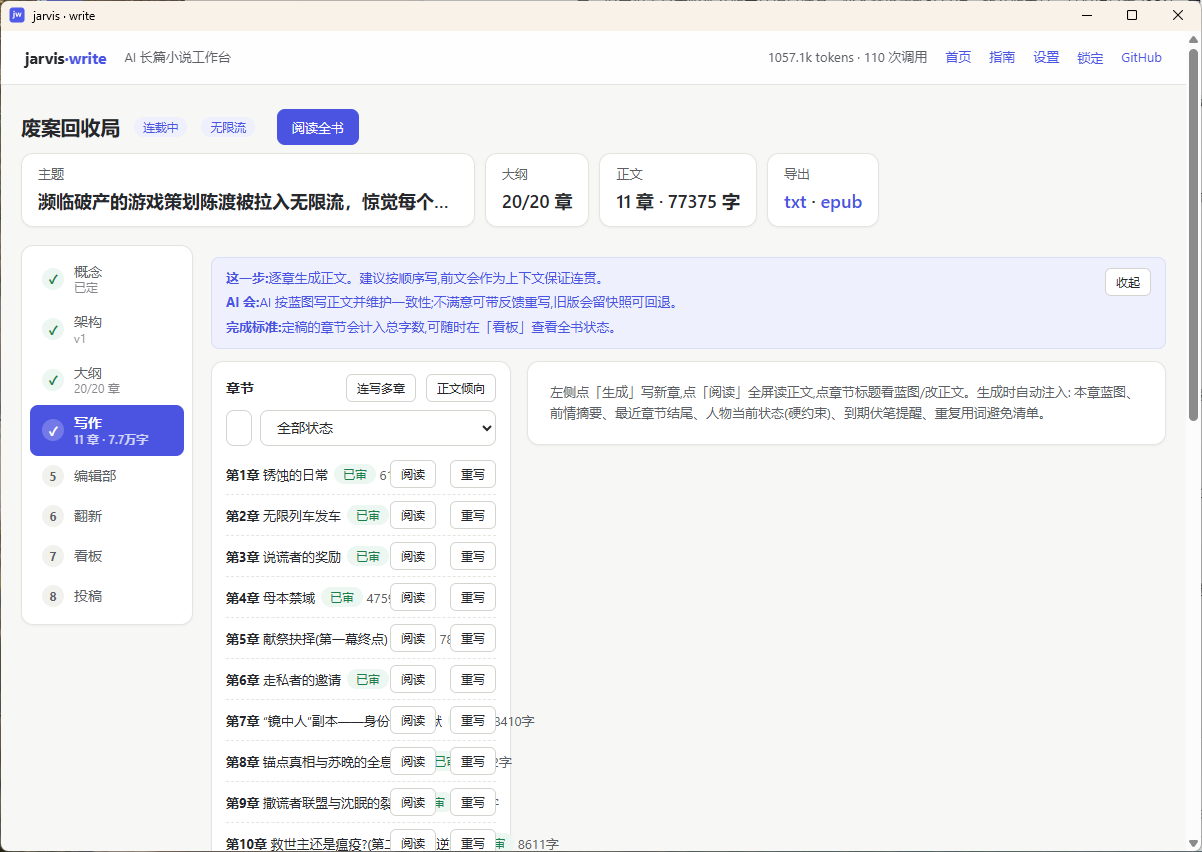
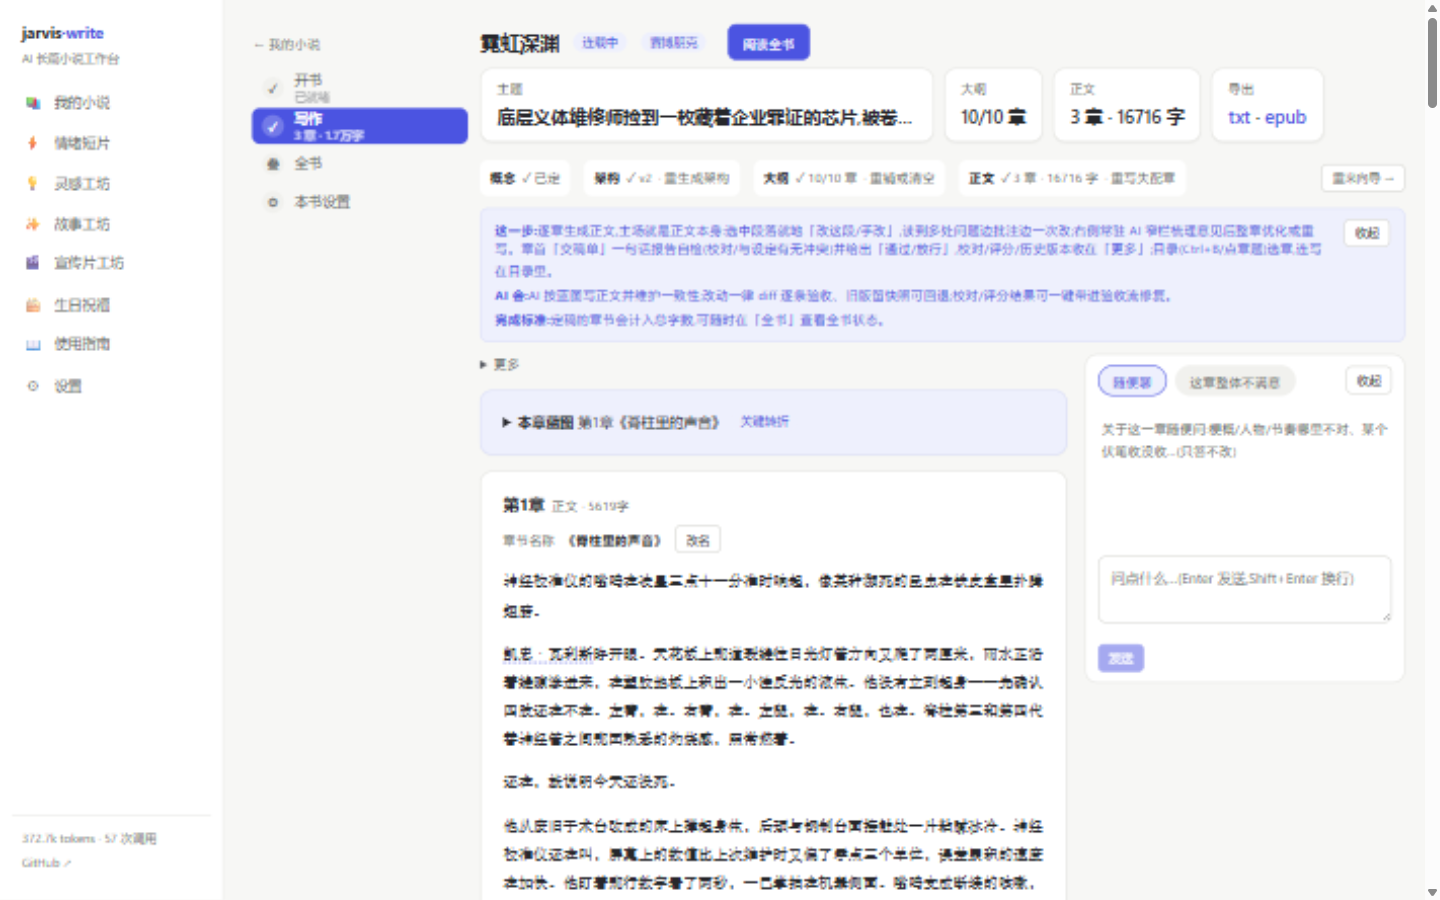
docs: README 与官网截图全面翻新——实拍当前 UI(工作台/首页/应用锁/故事工坊 + 移动端六图),删过期级联 GIF,补齐灵感工坊与故事工坊的介绍

diff --git a/docs/index.md b/docs/index.md
@@ -32,6 +32,9 @@ features:
   - icon: ⚡
     title: 情绪短片工坊 · 15/30s 三本子三选一
     details: 遗憾/争吵/爱情/童趣等十大情绪命题，一次产 3 个不同切入的本子（钩子→蓄势→金句字幕卡）；小说项目内另有「投流」页签——从你的定稿章节抽金句名场面出种草片，金句逐句溯源校验，编造引用当场标红。
+  - icon: ✨
+    title: 故事工坊 · 我有个点子，直接拍
+    details: 自己冒出一个具体场景时进这条：一段话把点子写下来（如「小朋友和妈妈坐出租车，车上的搞笑对话」），AI 以你的点子为本子主轴——第 1 个本子忠实还原你的故事，另两条同场景换镜头变体，不另起炉灶；画风任选 Q版沙雕漫画 / 日系二次元 / 3D 动画等，手卡自带角色定妆卡，先锁脸再逐段出片。
   - icon: 🎚
     title: 标签化倾向系统
     details: 风格/节奏/基调不再写死在 Prompt 里：chips + 自定义输入 + 预设模板，贯穿大纲、正文、润色三个节点，全程你说了算。
@@ -65,14 +68,9 @@ features:
 <p align="center">
   <img src="./assets/screenshots/01-workbench.png" alt="写作工作台" width="860">
 </p>
-<p align="center"><i>写作区（截图为早期三栏版本；现已升级为「正文即界面」单栏交互——正文为主场、段落气泡改写、AI 窄栏常驻、章首交稿单，截图待更新）</i></p>
+<p align="center"><i>写作区即「正文即界面」：本章正文为主场，章首交稿单与本章蓝图一键展开，右栏 AI 窄栏常驻，改动一律 diff 逐条验收</i></p>
 
-改大纲不再是大工程。改任意一章，系统自动分级改动、分析下游影响、勾选后级联重生成：
-
-<p align="center">
-  <img src="./assets/screenshots/demo-cascade.gif" alt="大纲级联更新演示" width="860">
-</p>
-<p align="center"><i>大纲级联更新全流程演示（30 秒）</i></p>
+改大纲不再是大工程。改任意一章，系统自动分级改动（小改零成本短路）、分析下游影响、勾选后级联重生成，已有正文自动标记失配，大纲全程版本化可回退。
 
 ## 漫剧工坊：写完的小说，一键变成漫剧
 
@@ -97,13 +95,15 @@ features:
 
 详见[功能导览 · 漫剧工坊](/features#漫剧工坊-小说一键改编漫剧)。
 
-## 宣传片工坊 & 情绪短片工坊：不写小说，也能用这台制片台
+## 宣传片工坊 & 情绪短片工坊 & 灵感/故事工坊 & 生日祝福：不写小说，也能用这台制片台
 
-漫剧之外，同一套制片管线（锚段一致性 / 三轨提示词 / 切段 / SRT）又开了两个工坊：
+漫剧之外，同一套制片管线（锚段一致性 / 三轨提示词 / 切段 / SRT）又开了五个工坊：
 
 **📣 宣传片工坊（城市 / 景区 / 品牌）——先聊后做。** 与 AI 策划总监多轮研讨（真流式打字机）：你说「想从吃的入手」，他反问关键问题、给具体方案、每轮复述共识；聊透了一键**收敛成创作简报**（定位/受众/段落结构/slogan/⚠需人工核实清单），简报是后续生成的契约，可锁定可重收敛。**素材点事实红线**：史实/数据/slogan 只可引用你给的素材点——宣传片把年代写错就是事故。全链路：风格+地标卡 → 解说词 → 分镜 → 三轨提示词 → **生成切段**（镜头边界并段 ≤5/10/15s，每段整段视频提示词+首帧指引，贴画布拼接工作流）→ 成片包 → 四格式导出。
 
 **⚡ 情绪短片工坊（15/30 秒）——一次三本子，三选一。** 遗憾/争吵/爱情/童趣等十大情绪命题（每个带导演提示），一次产 3 个不同切入的本子：钩子开场 → 情绪蓄势 → **金句字幕卡**收尾，每本自带三轨提示词/切段/SRT——短视频是试号逻辑，不磨单版。小说项目内另有**「投流」页签**：从你的定稿章节抽金句名场面出种草片，**金句溯源校验**（引用必须给出正文原句并逐句比对，编造的当场标红）——它读的是你的书，引用的是你写的话，这是和通用 AI 聊天拉开差距的地方。
+
+**💡 灵感工坊 & ✨ 故事工坊——「选玩法让 AI 编」与「我的点子直接拍」两条心智。** 灵感工坊（`/inspire`）内置治愈手绘 / 黏土定格 / 赛博雨夜 / 动物拟人 / 荒诞脑洞等十二种玩法，玩法自带强画风锚，一次三本子三选一；故事工坊（`/free`）则是你自己冒出一个具体场景时进的那条：一段话把点子写下来，AI 以**你的点子为本子主轴**（第 1 个本子忠实还原，另两条同场景换变体），画风任选 Q版沙雕漫画 / 日系二次元等，手卡自带角色定妆卡——先出定妆照锁脸，再逐段出片。
 
 详见[功能导览](/features)。
 
@@ -118,11 +118,8 @@ features:
   <img src="./assets/screenshots/mobile-04.jpg" style="width:100%;margin:0;border-radius:12px;border:1px solid var(--vp-c-divider);box-shadow:0 2px 10px rgba(0,0,0,.08);">
   <img src="./assets/screenshots/mobile-05.jpg" style="width:100%;margin:0;border-radius:12px;border:1px solid var(--vp-c-divider);box-shadow:0 2px 10px rgba(0,0,0,.08);">
   <img src="./assets/screenshots/mobile-06.jpg" style="width:100%;margin:0;border-radius:12px;border:1px solid var(--vp-c-divider);box-shadow:0 2px 10px rgba(0,0,0,.08);">
-  <img src="./assets/screenshots/mobile-07.jpg" style="width:100%;margin:0;border-radius:12px;border:1px solid var(--vp-c-divider);box-shadow:0 2px 10px rgba(0,0,0,.08);">
-  <img src="./assets/screenshots/mobile-08.jpg" style="width:100%;margin:0;border-radius:12px;border:1px solid var(--vp-c-divider);box-shadow:0 2px 10px rgba(0,0,0,.08);">
-  <img src="./assets/screenshots/mobile-09.jpg" style="width:100%;margin:0;border-radius:12px;border:1px solid var(--vp-c-divider);box-shadow:0 2px 10px rgba(0,0,0,.08);">
 </div>
-<p><i>移动端截图（早期版本；现已改为全屏正文 + 顶栏目录 / 任务中心 + 全屏 sheet，截图待更新）</i></p>
+<p><i>移动端：首页 / 全局导航抽屉 / 正文即界面 / 全书阅读器 / 故事工坊 / 全书概览</i></p>
 
 ## 三种使用方式
 

diff --git a/README.md b/README.md
@@ -9,13 +9,7 @@
 <p align="center">
   <img src="docs/assets/screenshots/01-workbench.png" alt="写作工作台" width="820">
 </p>
-<p align="center"><i>写作工作台分「开书 / 写作 / 全书」三区；写作区已升级为「正文即界面」单栏交互——正文为主场、段落气泡改写、AI 窄栏常驻、章首交稿单、diff 逐条验收（截图为早期三栏版本，待更新）</i></p>
-
-**🎬 30 秒看懂「大纲级联更新」全流程：**
-
-<p align="center">
-  <img src="docs/assets/screenshots/demo-cascade.gif" alt="大纲级联更新演示" width="820">
-</p>
+<p align="center"><i>写作工作台:左侧全局工坊导航,书内按「开书 / 写作 / 全书」三区推进;写作区即「正文即界面」——本章正文为主场,章首交稿单与本章蓝图一键展开,右栏 AI 窄栏常驻(随便问 / 整章不满意),改动一律 diff 逐条验收</i></p>
 
 <details>
 <summary>📸 更多截图（桌面版 / 移动端）</summary>
@@ -23,6 +17,12 @@
 | 首页 · 我的小说 | 应用锁 |
 |---|---|
 | <img src="docs/assets/screenshots/02-home.png" width="400"> | <img src="docs/assets/screenshots/03-applock.png" width="400"> |
+
+**✨ 故事工坊**——自己冒出一个点子时进这里,一段话直接拍成竖屏短片:
+
+<p align="center">
+  <img src="docs/assets/screenshots/04-story-workshop.png" alt="故事工坊" width="400">
+</p>
 
 移动端已适配，手机浏览器打开即用：
 
@@ -73,9 +73,9 @@
 
 详见官网 [功能导览 · 漫剧工坊](https://ynnyh.github.io/jarvis-write/features#漫剧工坊-小说一键改编漫剧)。
 
-## 📣⚡🎂 宣传片工坊 & 情绪短片工坊 & 生日祝福工坊：不写小说，也能用这台制片台
+## 📣⚡💡✨🎂 宣传片工坊 & 情绪短片工坊 & 灵感工坊 & 故事工坊 & 生日祝福工坊：不写小说，也能用这台制片台
 
-漫剧之外，同一套制片管线（锚段一致性 / 三轨提示词 / 切段 / SRT）又开了三个工坊，服务三类新需求：
+漫剧之外，同一套制片管线（锚段一致性 / 三轨提示词 / 切段 / SRT）又开了五个工坊，服务五类新需求：
 
 **📣 宣传片工坊（城市 / 景区 / 品牌）**——先聊后做：
 
@@ -87,6 +87,14 @@
 
 - **通用入口**：遗憾/争吵/爱情/童趣等十大情绪命题，一次产 3 个不同切入的本子（钩子→蓄势→金句字幕卡），每本自带三轨提示词/切段/SRT——短视频是试号逻辑，不磨单版
 - **小说衍生入口**（全书→「投流」页签）：从你的定稿章节抽金句名场面出投流种草片，**金句溯源校验**——引用必须给出正文原句并逐句比对，编造的当场标红。它读的是你的书，引用的是你写的话，这是和通用 AI 聊天拉开差距的地方
+
+**💡 灵感工坊（玩法短视频）**——选个玩法,一次三本子：
+
+- 治愈手绘 / 黏土定格 / 赛博雨夜 / 像素复古 / 动物拟人 / 荒诞脑洞等十二种玩法,玩法 directive 自带强画风锚,画风气质一眼可辨;允许荒诞与反差,越有梗越对,拿去做账号试号 / 日常更新
+
+**✨ 故事工坊（自由创作）**——我突然有个点子,直接拍：
+
+- 自己冒出一个具体场景(「小朋友和妈妈坐出租车,车上的搞笑对话」)时进这条:一段话把点子写下来,AI 以**你的点子为本子主轴**——第 1 个本子忠实还原你的故事,另两条同场景换镜头语言变体,不另起炉灶编新故事;画风任选(Q版沙雕漫画 / 日系二次元 / 3D 动画…),手卡自带**角色定妆卡**,先出定妆照锁脸再逐段出片,人物不漂
 
 **🎂 生日祝福工坊（30/60 秒，寿星定制）**——填一份寿星资料，一次三本子三选一：
 

diff --git a/README_EN.md b/README_EN.md
@@ -9,13 +9,7 @@ The hard problem of AI-assisted novel writing isn't producing text — it's keep
 <p align="center">
   <img src="docs/assets/screenshots/01-workbench.png" alt="Writing workbench" width="820">
 </p>
-<p align="center"><i>The writing workbench: six-step pipeline navigation and a chapter map (review status, word counts) on the left; chapter-by-chapter generation / reading / rewriting on the right</i></p>
-
-**🎬 The cascading outline update, end to end in 30 seconds:**
-
-<p align="center">
-  <img src="docs/assets/screenshots/demo-cascade.gif" alt="Cascading outline update demo" width="820">
-</p>
+<p align="center"><i>The writing workbench: a global workshop sidebar on the left; inside a book you move through three zones — Set up / Write / Whole book. The write zone puts the chapter text front and center, with a submission slip and chapter blueprint at the top, an always-on AI sidebar on the right (ask anything / rework this chapter), and every AI edit accepted piece by piece through a diff review</i></p>
 
 <details>
 <summary>📸 More screenshots (desktop / mobile)</summary>
@@ -23,6 +17,12 @@ The hard problem of AI-assisted novel writing isn't producing text — it's keep
 | Home · My novels | App lock |
 |---|---|
 | <img src="docs/assets/screenshots/02-home.png" width="400"> | <img src="docs/assets/screenshots/03-applock.png" width="400"> |
+
+**✨ Story Workshop** — for when an idea of your own shows up: describe the scene in a paragraph and get a vertical short film built around it:
+
+<p align="center">
+  <img src="docs/assets/screenshots/04-story-workshop.png" alt="Story workshop" width="400">
+</p>
 
 The mobile UI is fully adapted — just open it in a phone browser:
 
